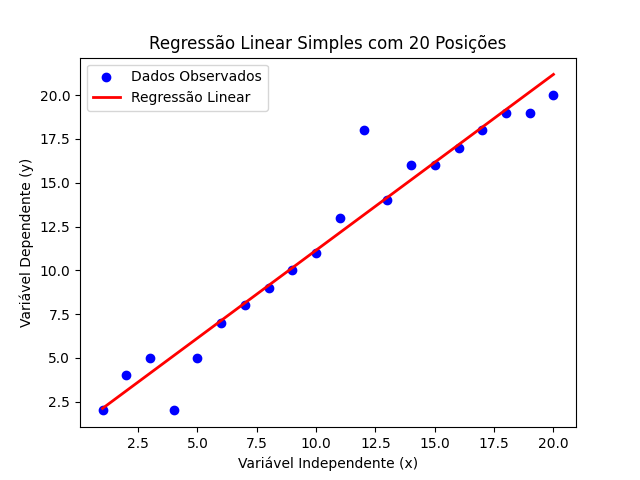
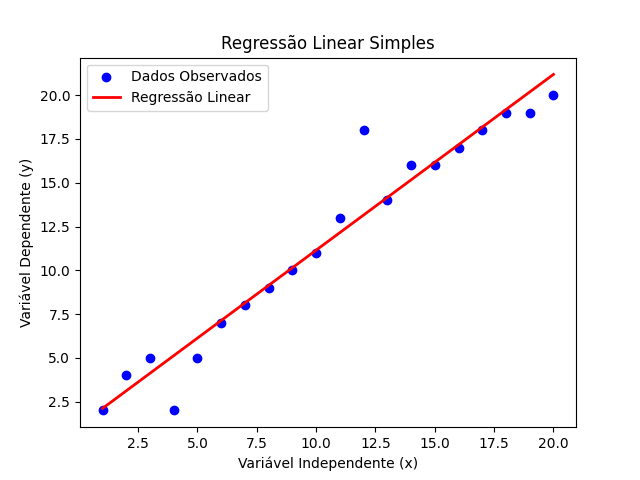
Regressão Linear

Changed region(s): [[0.2188, 0.0625, 0.7812, 0.125]]

diff --git a/algoritmos/01_regressao_linear.py b/algoritmos/01_regressao_linear.py
@@ -28,7 +28,7 @@ plt.scatter(x, y, color='blue', label='Dados Observados')
 plt.plot(x, y_pred, color='red', linewidth=2, label='Regressão Linear')
 plt.xlabel('Variável Independente (x)')
 plt.ylabel('Variável Dependente (y)')
-plt.title('Regressão Linear Simples com 20 Posições')
+plt.title('Regressão Linear Simples')
 plt.legend()
 plt.show()
 
